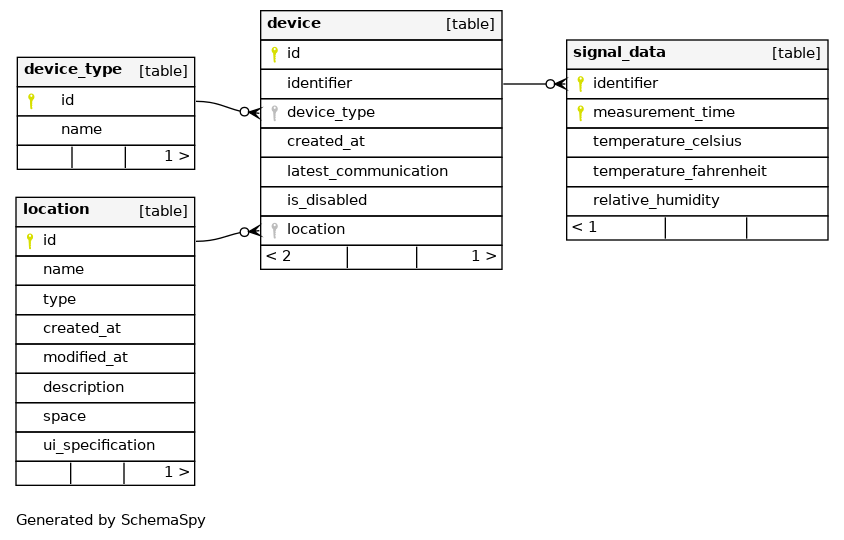
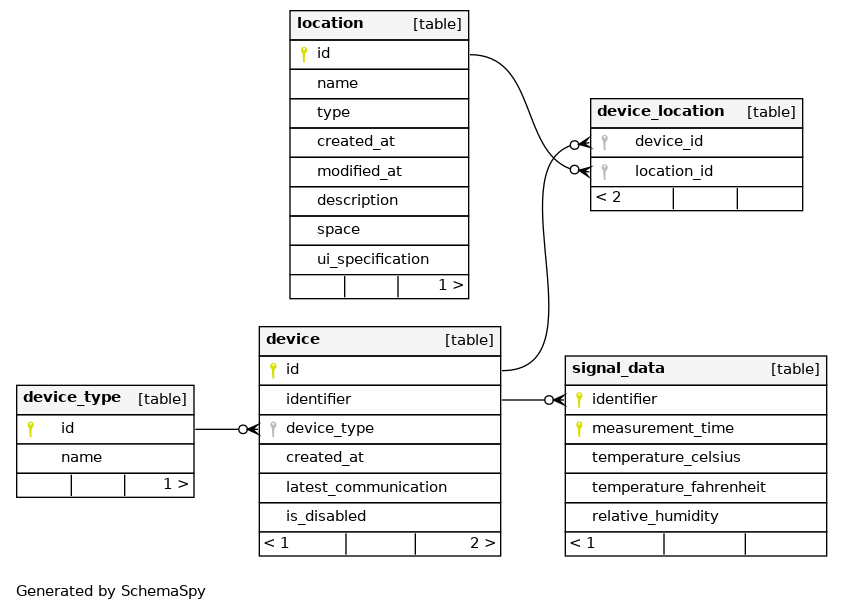
Add access resource (#47)

Changed region(s): [[0.0, 0.0, 0.987, 0.9185], [0.0, 0.9481, 0.2467, 0.9778]]

diff --git a/message-server/src/test/java/org/juhanir/message_server/rest/resource/AccessResourceTest.java b/message-server/src/test/java/org/juhanir/message_server/rest/resource/AccessResourceTest.java
@@ -1,0 +1,53 @@
+package org.juhanir.message_server.rest.resource;
+
+import io.quarkus.test.common.QuarkusTestResource;
+import io.quarkus.test.junit.QuarkusTest;
+import org.juhanir.domain.sensordata.entity.GroupDevice;
+import org.juhanir.message_server.MessageServerTestResource;
+import org.juhanir.message_server.rest.api.Role;
+import org.juhanir.message_server.utils.MessageServerTestBase;
+import org.junit.jupiter.api.Test;
+
+@QuarkusTest
+@QuarkusTestResource(value = MessageServerTestResource.class)
+public class AccessResourceTest extends MessageServerTestBase {
+
+    @Test()
+    void canAssignDeviceToGroupName() {
+        final String deviceIdentifier = createDeviceToDatabase();
+        final var groupDevice = new GroupDevice();
+        groupDevice.setDeviceIdentifier(deviceIdentifier);
+        groupDevice.setGroupName("group123");
+        authenticateUsingRole(Role.ADMIN)
+                .body(groupDevice)
+                .contentType("application/json")
+                .post("access/assign")
+                .then()
+                .statusCode(200);
+    }
+
+    @Test()
+    void canAssignSameDeviceToMultipleGroupName() {
+        final String deviceIdentifier = createDeviceToDatabase();
+        final var groupDevice = new GroupDevice();
+        groupDevice.setDeviceIdentifier(deviceIdentifier);
+        groupDevice.setGroupName("group123");
+        authenticateUsingRole(Role.ADMIN)
+                .body(groupDevice)
+                .contentType("application/json")
+                .post("access/assign")
+                .then()
+                .statusCode(200);
+
+        final var groupDevice2 = new GroupDevice();
+        groupDevice2.setDeviceIdentifier(deviceIdentifier);
+        groupDevice2.setGroupName("group999");
+        authenticateUsingRole(Role.ADMIN)
+                .body(groupDevice2)
+                .contentType("application/json")
+                .post("access/assign")
+                .then()
+                .statusCode(200);
+    }
+
+}

diff --git a/message-server/src/main/java/org/juhanir/message_server/rest/api/AccessApi.java b/message-server/src/main/java/org/juhanir/message_server/rest/api/AccessApi.java
@@ -1,0 +1,30 @@
+package org.juhanir.message_server.rest.api;
+
+import io.smallrye.mutiny.Uni;
+import jakarta.annotation.security.RolesAllowed;
+import jakarta.validation.Valid;
+import jakarta.ws.rs.Consumes;
+import jakarta.ws.rs.POST;
+import jakarta.ws.rs.Path;
+import jakarta.ws.rs.core.MediaType;
+import jakarta.ws.rs.core.Response;
+import org.eclipse.microprofile.openapi.annotations.Operation;
+import org.eclipse.microprofile.openapi.annotations.responses.APIResponse;
+import org.juhanir.domain.sensordata.dto.incoming.AssignAccessRequestBody;
+
+@Path("access")
+@RolesAllowed({Role.USER, Role.ADMIN})
+public interface AccessApi {
+
+    @POST
+    @Path("/assign")
+    @Operation(summary = "Associate a device with a group")
+    @Consumes(MediaType.APPLICATION_JSON)
+    @APIResponse(
+            responseCode = "200",
+            description = "Device assigned to group."
+    )
+    @RolesAllowed({Role.ADMIN})
+    Uni<Response> assignDevice(@Valid AssignAccessRequestBody reqBody);
+
+}

diff --git a/message-server/src/main/java/org/juhanir/message_server/rest/resource/AccessApiResource.java b/message-server/src/main/java/org/juhanir/message_server/rest/resource/AccessApiResource.java
@@ -1,0 +1,27 @@
+package org.juhanir.message_server.rest.resource;
+
+import io.quarkus.hibernate.reactive.panache.common.WithSession;
+import io.smallrye.mutiny.Uni;
+import jakarta.inject.Inject;
+import jakarta.ws.rs.core.Response;
+import org.juhanir.domain.sensordata.dto.incoming.AssignAccessRequestBody;
+import org.juhanir.message_server.repository.AccessRepository;
+import org.juhanir.message_server.rest.api.AccessApi;
+
+public class AccessApiResource implements AccessApi {
+
+    private final AccessRepository accessRepository;
+
+    @Inject
+    public AccessApiResource(AccessRepository accessRepository) {
+        this.accessRepository = accessRepository;
+    }
+
+    @Override
+    @WithSession
+    public Uni<Response> assignDevice(AssignAccessRequestBody reqBody) {
+        return accessRepository
+                .assignDeviceToGroup(reqBody.getDeviceIdentifier(), reqBody.getGroupName())
+                .map(groupDevice -> Response.ok(groupDevice).build());
+    }
+}

diff --git a/message-server/src/test/java/org/juhanir/message_server/perf/HumidityDataPerformanceTest.java b/message-server/src/test/java/org/juhanir/message_server/perf/HumidityDataPerformanceTest.java
@@ -4,7 +4,7 @@ import io.quarkus.test.common.QuarkusTestResource;
 import io.quarkus.test.junit.QuarkusTest;
 import org.juhanir.message_server.MessageServerTestResource;
 import org.juhanir.message_server.rest.api.Role;
-import org.juhanir.message_server.utils.QuarkusTestUtils;
+import org.juhanir.message_server.utils.MessageServerTestBase;
 import org.junit.jupiter.api.BeforeEach;
 import org.junit.jupiter.api.Tag;
 import org.junit.jupiter.api.Test;
@@ -17,7 +17,7 @@ import static org.junit.jupiter.api.Assertions.assertTrue;
 @Tag("performance")
 @QuarkusTest
 @QuarkusTestResource(value = MessageServerTestResource.class)
-public class HumidityDataPerformanceTest extends QuarkusTestUtils {
+public class HumidityDataPerformanceTest extends MessageServerTestBase {
 
     private static final int QUERY_NFR_TIME_LIMIT_MS = 500; // With authentication
     private static String identifier;

diff --git a/message-server/src/test/java/org/juhanir/message_server/mqtt/TemperatureStatusTest.java b/message-server/src/test/java/org/juhanir/message_server/mqtt/TemperatureStatusTest.java
@@ -9,7 +9,7 @@ import io.vertx.mutiny.mqtt.MqttClient;
 import org.juhanir.domain.sensordata.dto.outgoing.DeviceResponse;
 import org.juhanir.message_server.MessageServerTestResource;
 import org.juhanir.message_server.utils.AwaitUtils;
-import org.juhanir.message_server.utils.QuarkusTestUtils;
+import org.juhanir.message_server.utils.MessageServerTestBase;
 import org.junit.jupiter.api.AfterAll;
 import org.junit.jupiter.api.Assertions;
 import org.junit.jupiter.api.BeforeEach;
@@ -24,7 +24,7 @@ import static org.juhanir.message_server.utils.TestConstants.DATETIME_PATTERN;
 
 @QuarkusTest
 @QuarkusTestResource(value = MessageServerTestResource.class)
-public class TemperatureStatusTest extends QuarkusTestUtils {
+public class TemperatureStatusTest extends MessageServerTestBase {
 
     private static MqttClient client;
     private static final String SENDER = "shellyid-123123";

diff --git a/message-server/src/test/java/org/juhanir/message_server/rest/resource/DeviceResourceTest.java b/message-server/src/test/java/org/juhanir/message_server/rest/resource/DeviceResourceTest.java
@@ -7,7 +7,7 @@ import org.juhanir.domain.sensordata.entity.DeviceTypeName;
 import org.juhanir.domain.sensordata.entity.SignalData;
 import org.juhanir.message_server.MessageServerTestResource;
 import org.juhanir.message_server.rest.api.Role;
-import org.juhanir.message_server.utils.QuarkusTestUtils;
+import org.juhanir.message_server.utils.MessageServerTestBase;
 import org.junit.jupiter.api.Test;
 import org.junit.jupiter.params.ParameterizedTest;
 import org.junit.jupiter.params.provider.Arguments;
@@ -23,7 +23,7 @@ import static org.juhanir.message_server.utils.TestConstants.DATETIME_PATTERN;
 
 @QuarkusTest
 @QuarkusTestResource(value = MessageServerTestResource.class)
-public class DeviceResourceTest extends QuarkusTestUtils {
+public class DeviceResourceTest extends MessageServerTestBase {
 
     @ParameterizedTest()
     @ValueSource(strings = {Role.USER, Role.ADMIN})

diff --git a/message-server/src/test/java/org/juhanir/message_server/rest/resource/SignalDataResourceTest.java b/message-server/src/test/java/org/juhanir/message_server/rest/resource/SignalDataResourceTest.java
@@ -8,7 +8,7 @@ import org.juhanir.domain.sensordata.entity.Device;
 import org.juhanir.domain.sensordata.entity.SignalData;
 import org.juhanir.message_server.MessageServerTestResource;
 import org.juhanir.message_server.rest.api.Role;
-import org.juhanir.message_server.utils.QuarkusTestUtils;
+import org.juhanir.message_server.utils.MessageServerTestBase;
 import org.junit.jupiter.params.ParameterizedTest;
 import org.junit.jupiter.params.provider.ValueSource;
 
@@ -21,7 +21,7 @@ import static org.junit.jupiter.api.Assertions.assertTrue;
 
 @QuarkusTest
 @QuarkusTestResource(value = MessageServerTestResource.class)
-public class SignalDataResourceTest extends QuarkusTestUtils {
+public class SignalDataResourceTest extends MessageServerTestBase {
 
     @ParameterizedTest()
     @ValueSource(strings = {Role.USER, Role.ADMIN})

diff --git a/message-server/src/test/java/org/juhanir/message_server/mqtt/HumidityStatusTest.java b/message-server/src/test/java/org/juhanir/message_server/mqtt/HumidityStatusTest.java
@@ -9,7 +9,7 @@ import io.vertx.mutiny.mqtt.MqttClient;
 import org.juhanir.domain.sensordata.dto.outgoing.DeviceResponse;
 import org.juhanir.message_server.MessageServerTestResource;
 import org.juhanir.message_server.utils.AwaitUtils;
-import org.juhanir.message_server.utils.QuarkusTestUtils;
+import org.juhanir.message_server.utils.MessageServerTestBase;
 import org.junit.jupiter.api.AfterAll;
 import org.junit.jupiter.api.Assertions;
 import org.junit.jupiter.api.BeforeEach;
@@ -24,7 +24,7 @@ import static org.juhanir.message_server.utils.TestConstants.DATETIME_PATTERN;
 
 @QuarkusTest
 @QuarkusTestResource(value = MessageServerTestResource.class)
-public class HumidityStatusTest extends QuarkusTestUtils {
+public class HumidityStatusTest extends MessageServerTestBase {
 
     private static MqttClient client;
 

diff --git a/homeserver-common/src/main/java/org/juhanir/domain/sensordata/entity/GroupDevice.java b/homeserver-common/src/main/java/org/juhanir/domain/sensordata/entity/GroupDevice.java
@@ -17,4 +17,29 @@ public class GroupDevice implements Serializable {
     @Column(name = "device_identifier")
     private String deviceIdentifier;
 
+    public String getGroupName() {
+        return groupName;
+    }
+
+    public GroupDevice setGroupName(String groupName) {
+        this.groupName = groupName;
+        return this;
+    }
+
+    public String getDeviceIdentifier() {
+        return deviceIdentifier;
+    }
+
+    public GroupDevice setDeviceIdentifier(String deviceIdentifier) {
+        this.deviceIdentifier = deviceIdentifier;
+        return this;
+    }
+
+    @Override
+    public String toString() {
+        return "GroupDevice{" +
+                "groupName='" + groupName + '\'' +
+                ", deviceIdentifier='" + deviceIdentifier + '\'' +
+                '}';
+    }
 }

diff --git a/homeserver-common/src/main/java/org/juhanir/domain/sensordata/dto/incoming/AssignAccessRequestBody.java b/homeserver-common/src/main/java/org/juhanir/domain/sensordata/dto/incoming/AssignAccessRequestBody.java
@@ -1,0 +1,28 @@
+package org.juhanir.domain.sensordata.dto.incoming;
+
+import jakarta.validation.constraints.NotBlank;
+
+public class AssignAccessRequestBody {
+
+    @NotBlank(message="Device identifier must not be blank")
+    public String deviceIdentifier;
+
+    @NotBlank(message="Group name must not be blank")
+    public String groupName;
+
+    public String getDeviceIdentifier() {
+        return deviceIdentifier;
+    }
+
+    public String getGroupName() {
+        return groupName;
+    }
+
+    @Override
+    public String toString() {
+        return "AssignAccessRequestBody{" +
+                "deviceIdentifier='" + deviceIdentifier + '\'' +
+                ", groupName='" + groupName + '\'' +
+                '}';
+    }
+}

diff --git a/message-server/src/main/java/org/juhanir/message_server/repository/AccessRepository.java b/message-server/src/main/java/org/juhanir/message_server/repository/AccessRepository.java
@@ -1,0 +1,19 @@
+package org.juhanir.message_server.repository;
+
+import io.quarkus.hibernate.reactive.panache.PanacheRepository;
+import io.smallrye.mutiny.Uni;
+import jakarta.enterprise.context.ApplicationScoped;
+import org.juhanir.domain.sensordata.entity.GroupDevice;
+
+@ApplicationScoped
+public class AccessRepository implements PanacheRepository<GroupDevice> {
+
+    public Uni<GroupDevice> assignDeviceToGroup(String deviceIdentifier, String groupName) {
+        final GroupDevice groupDevice = new GroupDevice();
+        groupDevice
+                .setDeviceIdentifier(deviceIdentifier)
+                .setGroupName(groupName);
+        return persist(groupDevice);
+    }
+
+}

diff --git a/message-server/src/test/java/org/juhanir/message_server/utils/MessageServerTestBase.java b/message-server/src/test/java/org/juhanir/message_server/utils/MessageServerTestBase.java
@@ -16,7 +16,7 @@ import java.util.UUID;
 
 import static io.restassured.RestAssured.given;
 
-public abstract class QuarkusTestUtils {
+public abstract class MessageServerTestBase {
 
     /**
      * Test users are created by default by importing a dev/test realm via docker compose.
